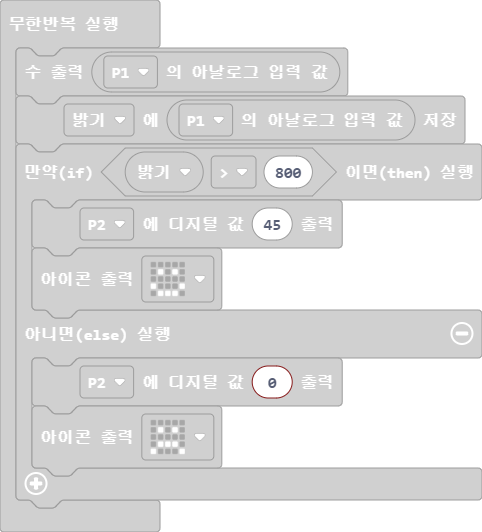
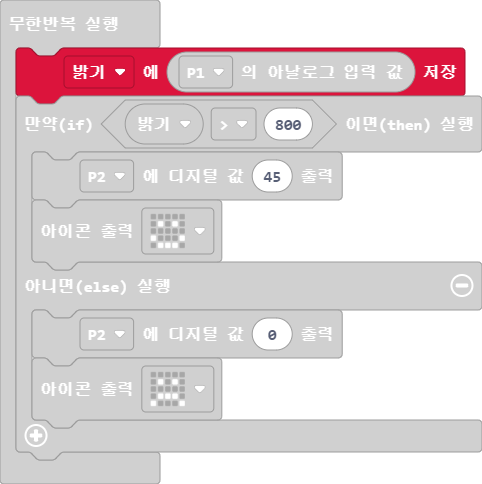
main.blocks, main.ts 업데이트하기

Changed region(s): [[0.0311, 0.031, 1.0, 0.9607], [0.0, 0.031, 0.1556, 0.062], [0.0622, 0.7128, 0.0934, 0.7438]]

diff --git a/main.ts b/main.ts
@@ -1,6 +1,5 @@
 let 밝기 = 0
 basic.forever(function () {
-    basic.showNumber(pins.analogReadPin(AnalogPin.P1))
     밝기 = pins.analogReadPin(AnalogPin.P1)
     if (밝기 > 800) {
         pins.digitalWritePin(DigitalPin.P2, 45)
